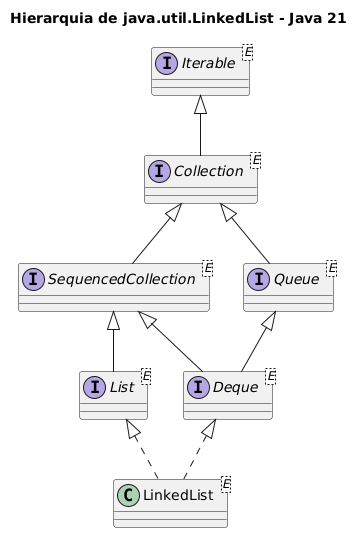
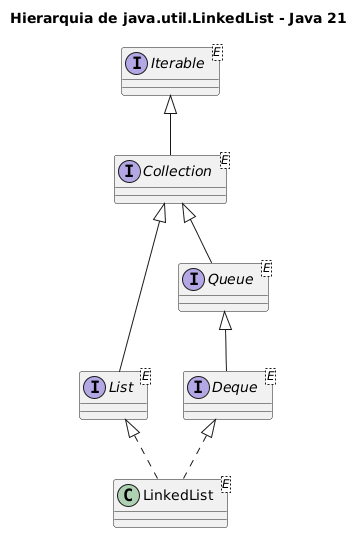
linkedlist

diff --git a/subjects/poo/lectures/11-collections.md b/subjects/poo/lectures/11-collections.md
@@ -390,7 +390,7 @@ System.out.println(alunos.size()); // 1
 <div class="columns small">
 <div>
 
-<img src="../images/11-linkedlist.png">
+<img src="../images/11-linkedlist-hierarchy.png">
 
 </div>
 <div>
@@ -419,7 +419,6 @@ System.out.println(alunos.size()); // 1
 
 - `Iterable`: permite percorrer elementos com <code>for-each</code>.
 - `Collection`: contrato básico para grupos de objetos.
-- `SequencedCollection`: representa coleções com ordem definida e operações nas duas extremidades.
 - `List`: coleção ordenada por posição, com elementos repetidos.
 - `Queue`: coleção usada para processamento em fila.
 - `Deque`: fila de duas pontas, útil como fila ou pilha.
@@ -463,6 +462,9 @@ System.out.println(alunos.size()); // 1
 <div>
 
 ```java
+import java.util.LinkedList;
+//...
+
 LinkedList<String> nomes = new LinkedList<>();
 
 nomes.add("Ana");
